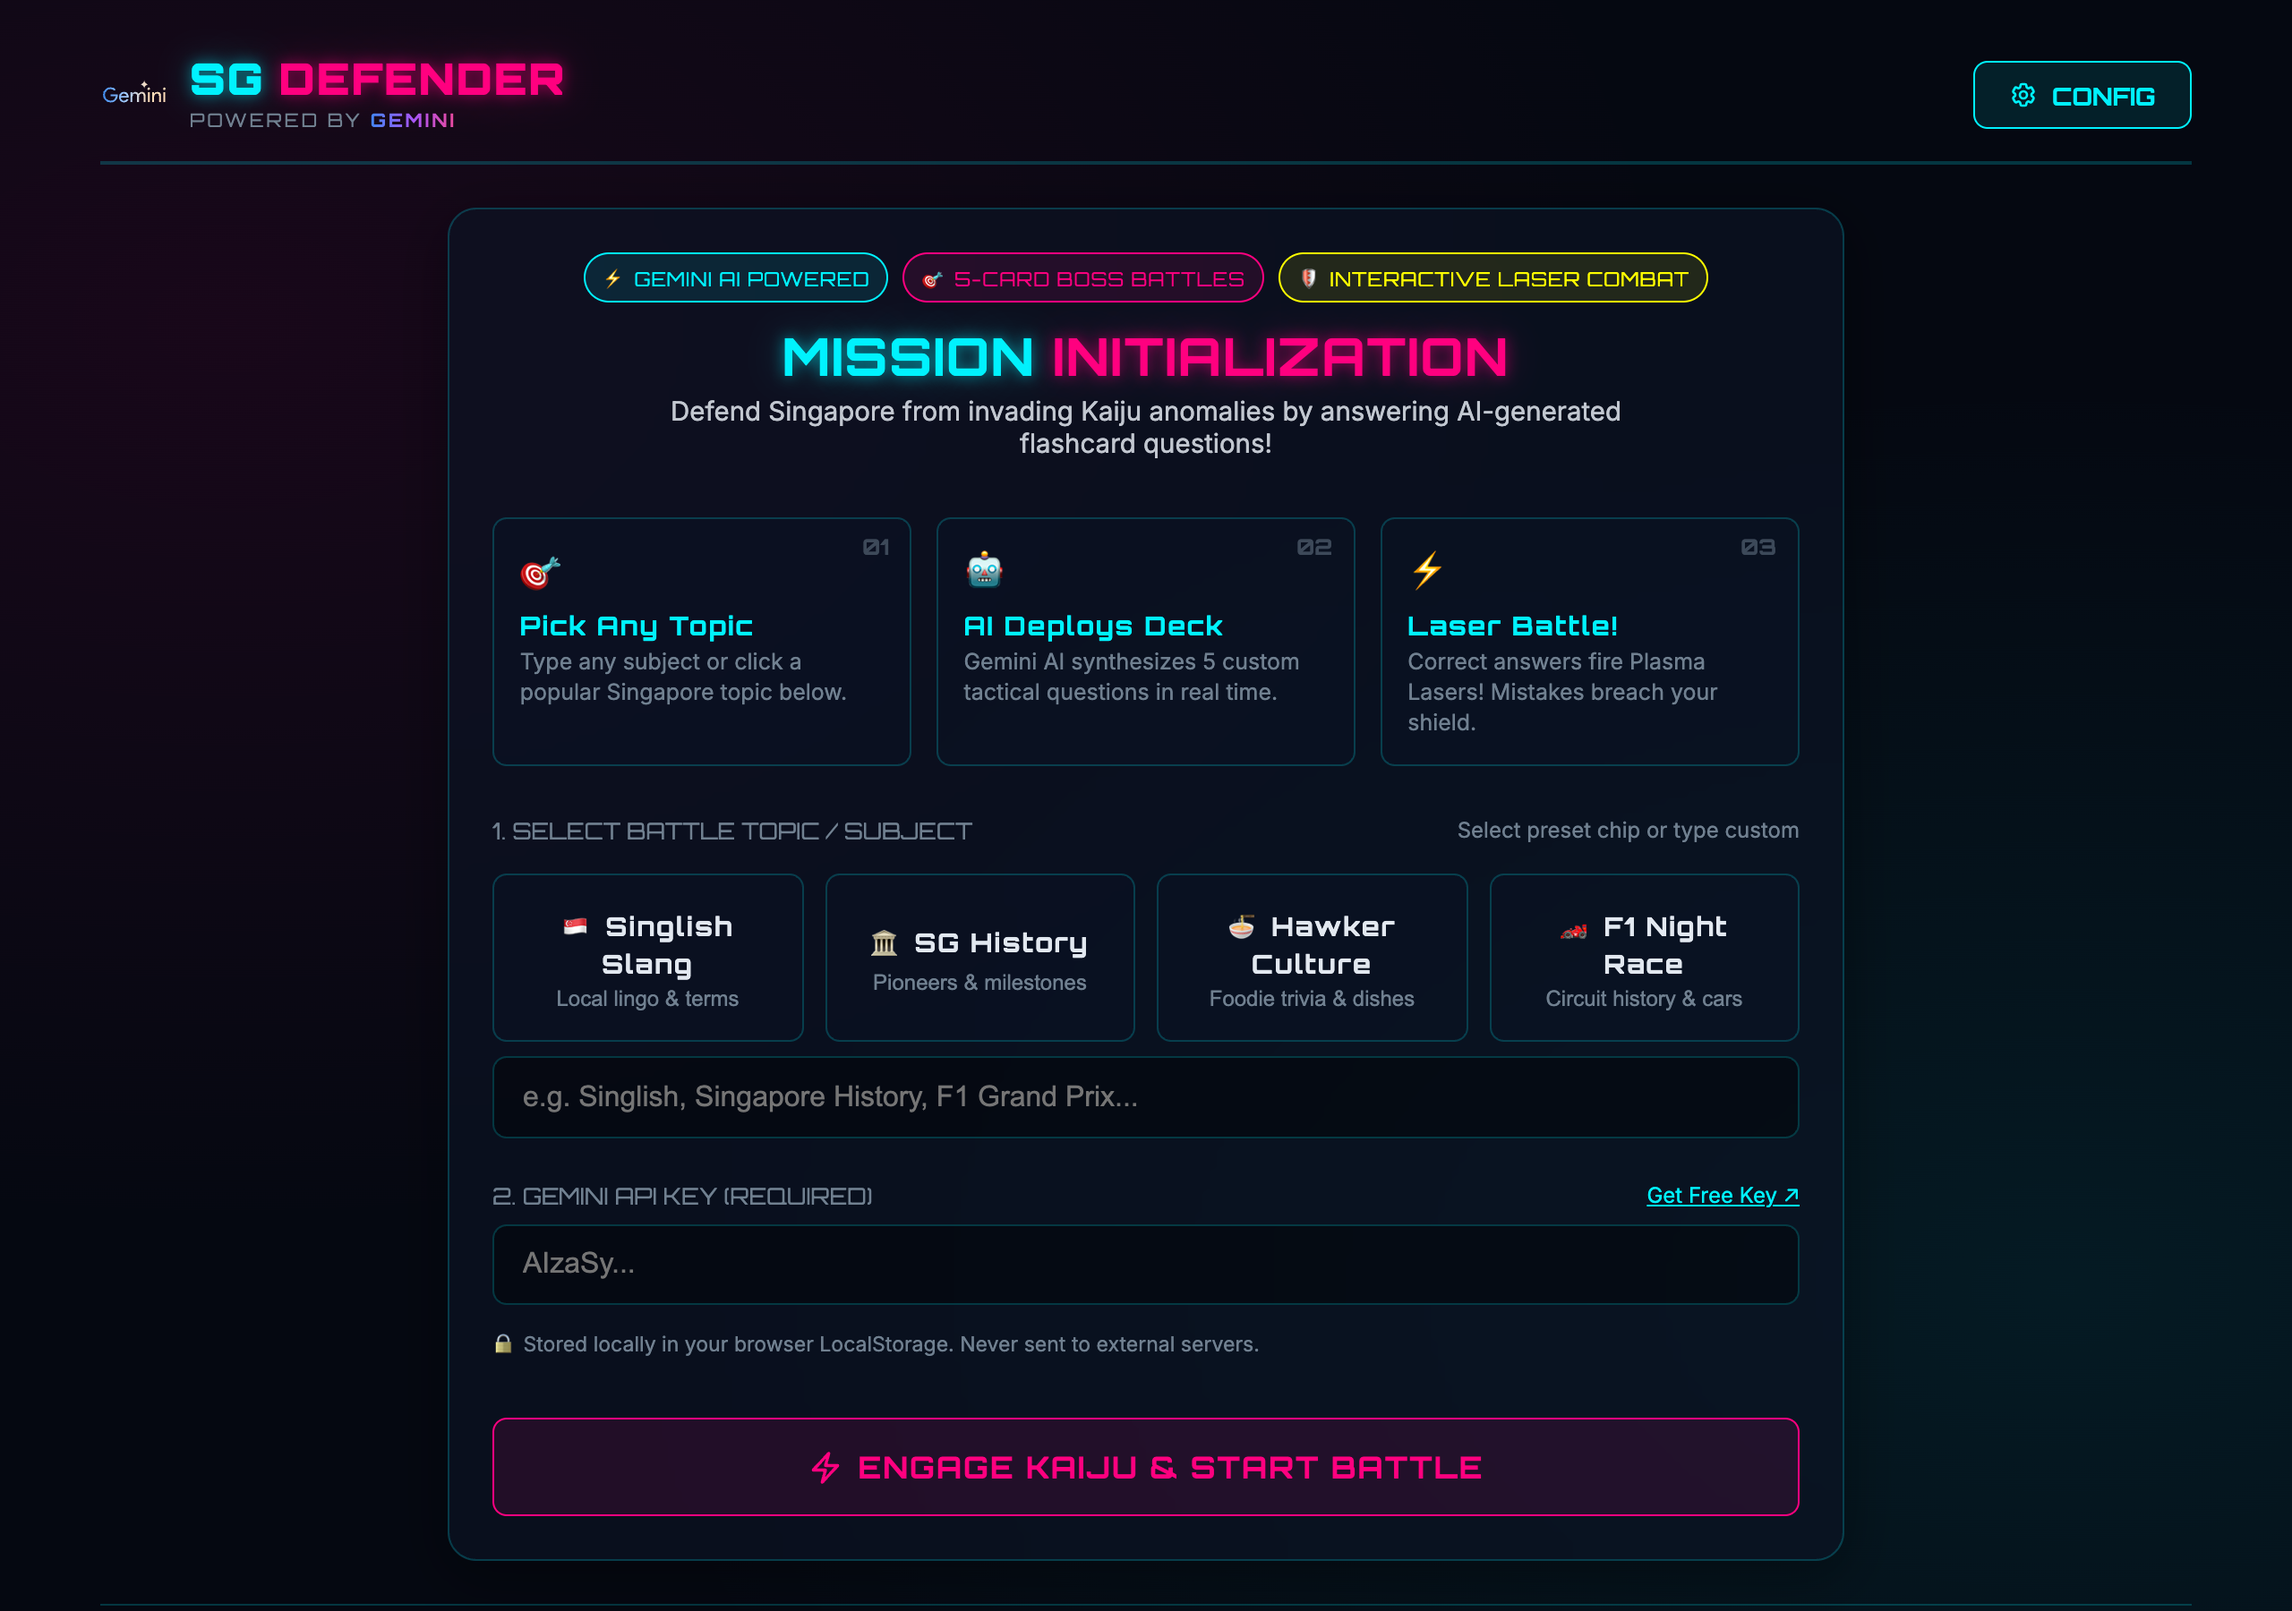
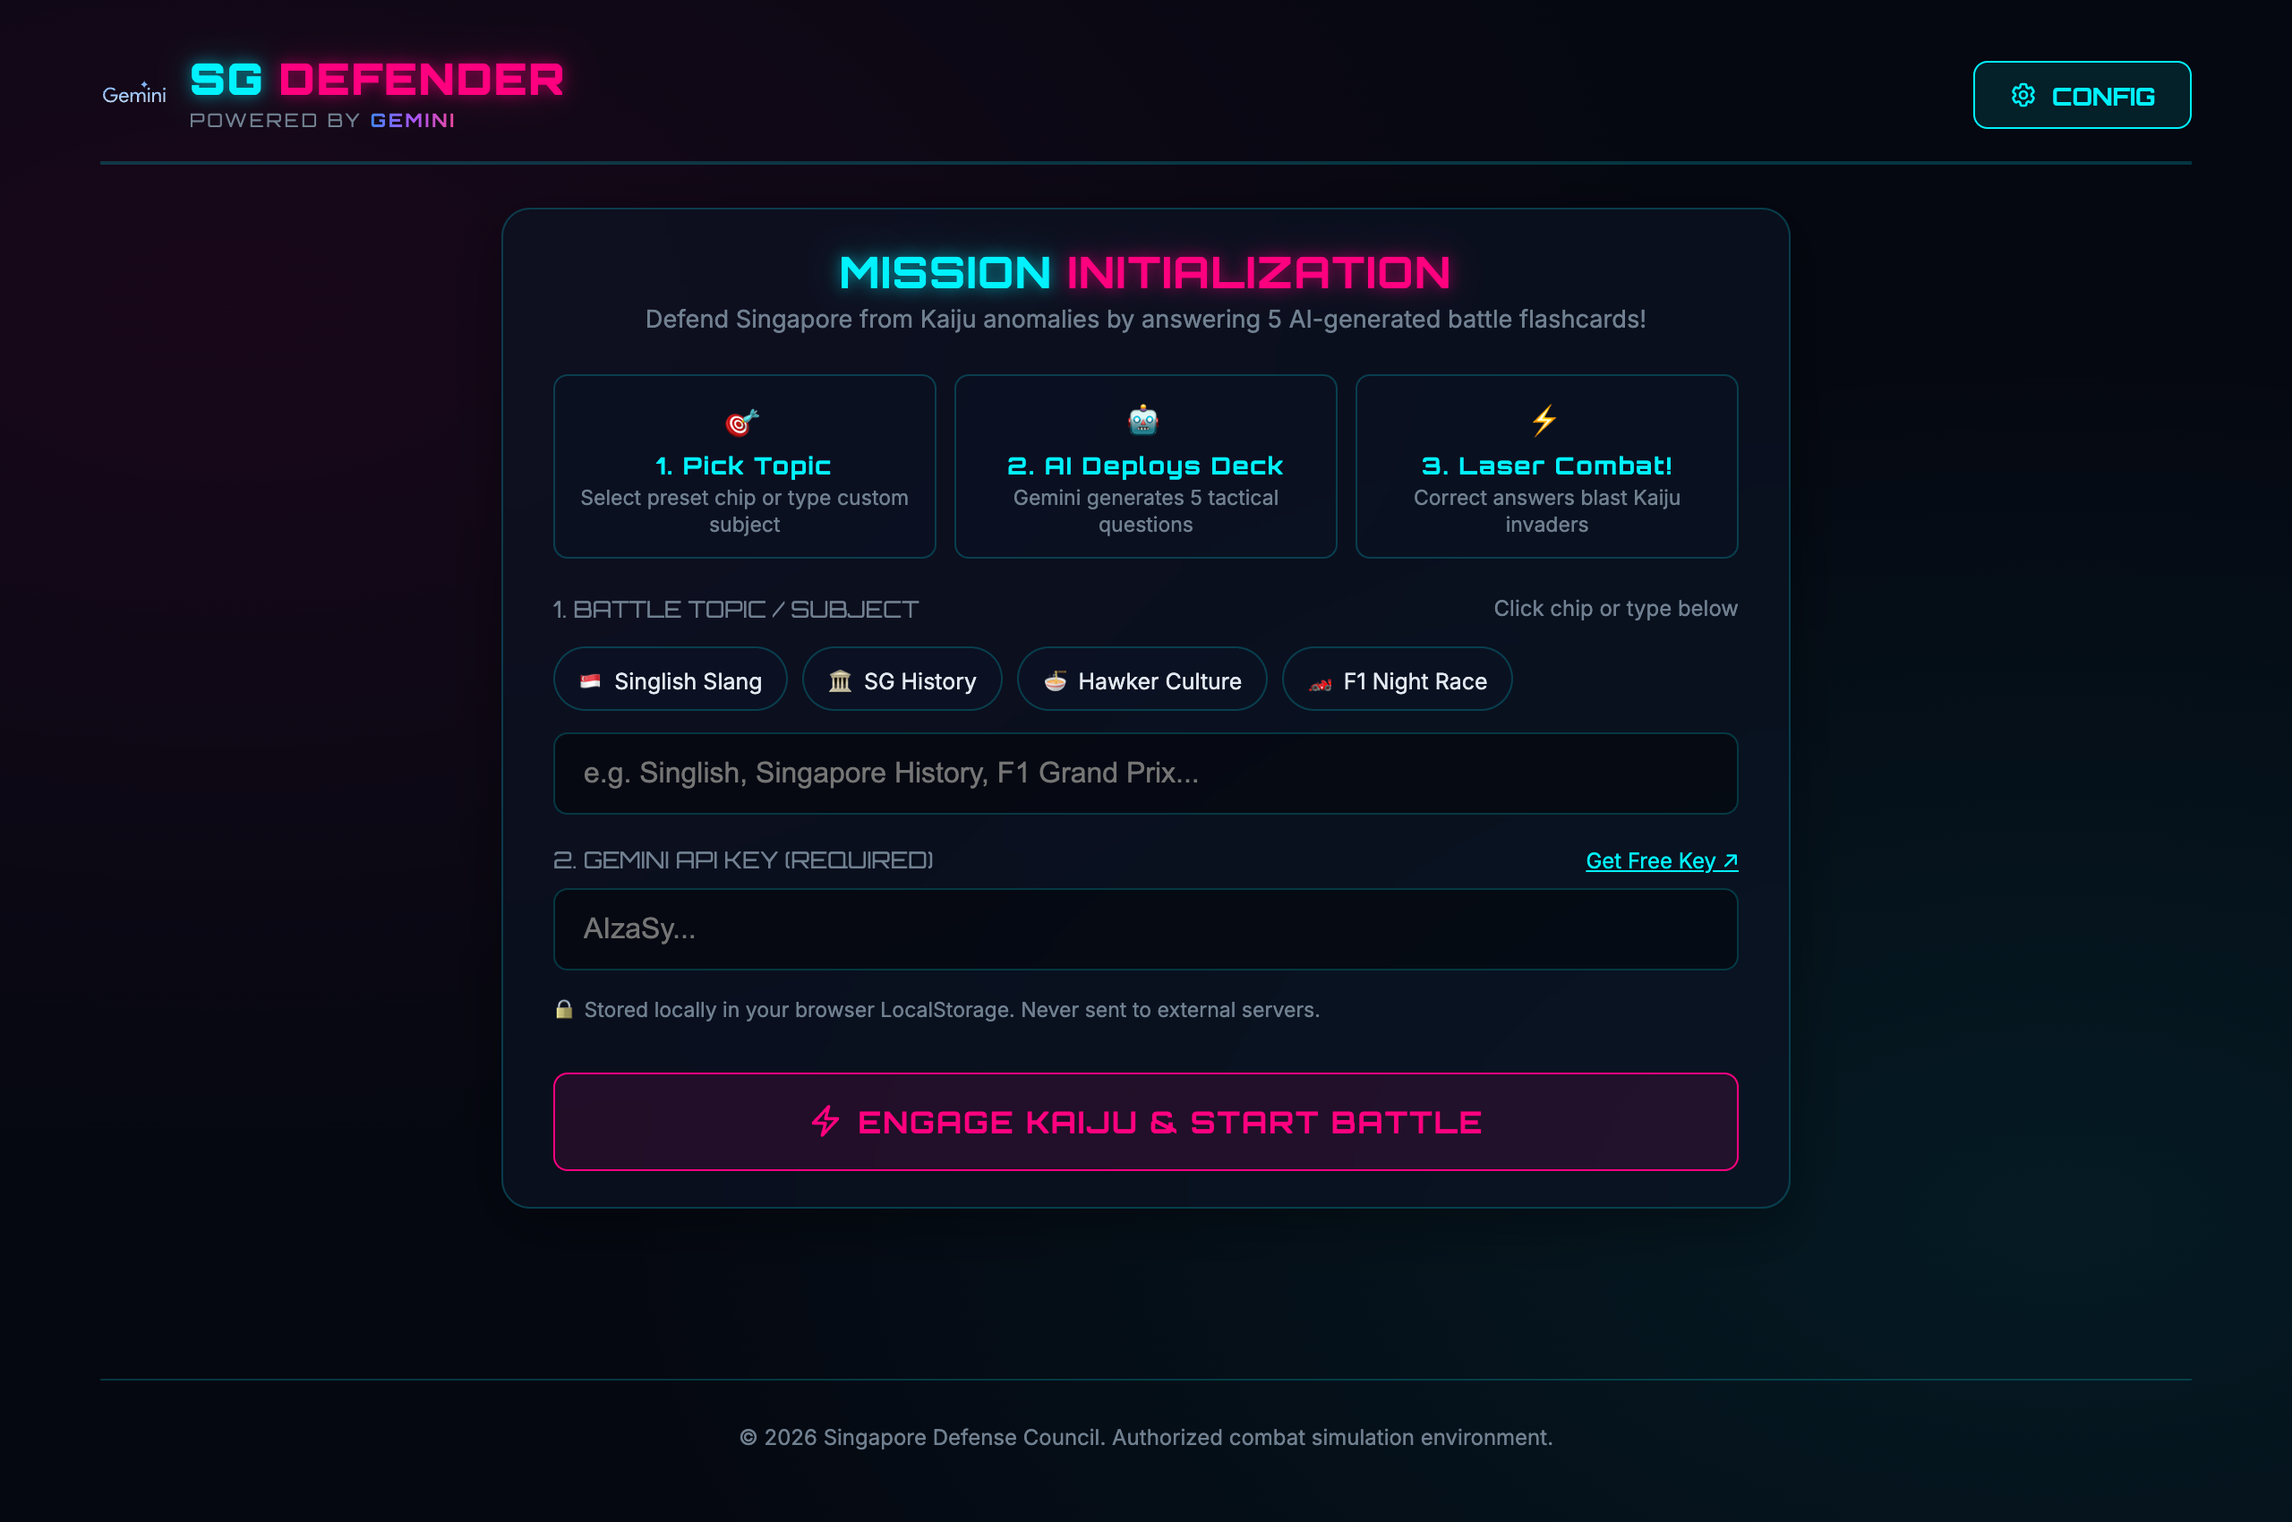
refactor: declutter landing page layout, convert preset cards to sleek 1-line chips, remove top badges, and increase vertical breathing room

diff --git a/index.html b/index.html
@@ -36,66 +36,46 @@
       
       <!-- 1. SETUP SCREEN / LANDING PAGE -->
       <section id="setup-screen" class="panel setup-panel">
-        <!-- Hero Header & Badges -->
+        <!-- Hero Header -->
         <div class="landing-hero">
-          <div class="badge-group">
-            <span class="hero-badge badge-cyan">⚡ Gemini AI Powered</span>
-            <span class="hero-badge badge-magenta">🎯 5-Card Boss Battles</span>
-            <span class="hero-badge badge-yellow">🛡 Interactive Laser Combat</span>
-          </div>
           <h2 class="hero-title font-tech">MISSION <span class="text-magenta">INITIALIZATION</span></h2>
           <p class="hero-subtitle">
-            Defend Singapore from invading Kaiju anomalies by answering AI-generated flashcard questions!
+            Defend Singapore from Kaiju anomalies by answering 5 AI-generated battle flashcards!
           </p>
         </div>
 
         <!-- 3-Step Core Loop Stepper Cards -->
         <div class="how-it-works-grid">
           <div class="step-card">
-            <div class="step-number">01</div>
             <div class="step-icon">🎯</div>
-            <h4>Pick Any Topic</h4>
-            <p>Type any subject or click a popular Singapore topic below.</p>
+            <h4>1. Pick Topic</h4>
+            <p>Select preset chip or type custom subject</p>
           </div>
           <div class="step-card">
-            <div class="step-number">02</div>
             <div class="step-icon">🤖</div>
-            <h4>AI Deploys Deck</h4>
-            <p>Gemini AI synthesizes 5 custom tactical questions in real time.</p>
+            <h4>2. AI Deploys Deck</h4>
+            <p>Gemini generates 5 tactical questions</p>
           </div>
           <div class="step-card">
-            <div class="step-number">03</div>
             <div class="step-icon">⚡</div>
-            <h4>Laser Battle!</h4>
-            <p>Correct answers fire Plasma Lasers! Mistakes breach your shield.</p>
+            <h4>3. Laser Combat!</h4>
+            <p>Correct answers blast Kaiju invaders</p>
           </div>
         </div>
 
         <!-- Topic Selection & Presets -->
         <div class="form-group">
-          <div class="key-label-row" style="margin-bottom: 0.5rem;">
-            <label for="topic-input" style="margin: 0;">1. Select Battle Topic / Subject</label>
-            <span style="font-size: 0.75rem; color: var(--color-text-muted);">Select preset chip or type custom</span>
+          <div class="key-label-row" style="margin-bottom: 0.35rem;">
+            <label for="topic-input" style="margin: 0;">1. Battle Topic / Subject</label>
+            <span style="font-size: 0.75rem; color: var(--color-text-muted);">Click chip or type below</span>
           </div>
           
           <!-- 1-Click Topic Chips -->
-          <div class="presets-grid" id="presets-container">
-            <button type="button" class="preset-card" data-topic="Singlish & Local Slang">
-              <h4>🇸🇬 Singlish Slang</h4>
-              <p>Local lingo & terms</p>
-            </button>
-            <button type="button" class="preset-card" data-topic="Singapore History & Heritage">
-              <h4>🏛 SG History</h4>
-              <p>Pioneers & milestones</p>
-            </button>
-            <button type="button" class="preset-card" data-topic="Singapore Hawker Food">
-              <h4>🍜 Hawker Culture</h4>
-              <p>Foodie trivia & dishes</p>
-            </button>
-            <button type="button" class="preset-card" data-topic="F1 Singapore Grand Prix">
-              <h4>🏎 F1 Night Race</h4>
-              <p>Circuit history & cars</p>
-            </button>
+          <div class="preset-chips-row" id="presets-container">
+            <button type="button" class="preset-chip" data-topic="Singlish & Local Slang">🇸🇬 Singlish Slang</button>
+            <button type="button" class="preset-chip" data-topic="Singapore History & Heritage">🏛 SG History</button>
+            <button type="button" class="preset-chip" data-topic="Singapore Hawker Food">🍜 Hawker Culture</button>
+            <button type="button" class="preset-chip" data-topic="F1 Singapore Grand Prix">🏎 F1 Night Race</button>
           </div>
 
           <input type="text" id="topic-input" class="form-input" placeholder="e.g. Singlish, Singapore History, F1 Grand Prix..." aria-required="true">

diff --git a/styles.css b/styles.css
@@ -202,44 +202,23 @@ header h1 span {
 .setup-panel {
   display: flex;
   flex-direction: column;
-  gap: 1.5rem;
-  max-width: 780px;
+  gap: 1.1rem;
+  max-width: 720px;
   margin: auto;
   width: 100%;
+  padding: 1.25rem 1.75rem;
 }
 
 .landing-hero {
   text-align: center;
-  margin-bottom: 0.25rem;
+  margin-bottom: 0.15rem;
 }
-
-.badge-group {
-  display: flex;
-  justify-content: center;
-  gap: 0.5rem;
-  flex-wrap: wrap;
-  margin-bottom: 0.75rem;
-}
-
-.hero-badge {
-  font-family: var(--font-display);
-  font-size: 0.68rem;
-  padding: 0.25rem 0.6rem;
-  border-radius: 20px;
-  border: 1px solid var(--color-border);
-  text-transform: uppercase;
-  letter-spacing: 0.5px;
-}
-
-.badge-cyan { background: rgba(0, 242, 254, 0.1); color: var(--color-cyan); border-color: var(--color-cyan); }
-.badge-magenta { background: rgba(255, 0, 127, 0.1); color: var(--color-magenta); border-color: var(--color-magenta); }
-.badge-yellow { background: rgba(254, 254, 0, 0.1); color: var(--color-yellow); border-color: var(--color-yellow); }
 
 .hero-title {
-  font-size: 1.8rem;
+  font-size: 1.5rem;
   color: var(--color-cyan);
   text-shadow: var(--glow-cyan);
-  margin-bottom: 0.25rem;
+  margin-bottom: 0.2rem;
 }
 
 .text-magenta {
@@ -248,9 +227,8 @@ header h1 span {
 }
 
 .hero-subtitle {
-  color: var(--color-text);
-  font-size: 0.92rem;
-  opacity: 0.85;
+  color: var(--color-text-muted);
+  font-size: 0.85rem;
   max-width: 580px;
   margin: 0 auto;
 }
@@ -258,52 +236,78 @@ header h1 span {
 /* 3-Step How It Works Grid */
 .how-it-works-grid {
   display: grid;
-  grid-template-columns: repeat(auto-fit, minmax(200px, 1fr));
-  gap: 0.85rem;
-  margin-block: 0.25rem;
+  grid-template-columns: repeat(auto-fit, minmax(180px, 1fr));
+  gap: 0.65rem;
+  margin-block: 0.15rem;
 }
 
 .step-card {
   background: rgba(10, 18, 36, 0.5);
   border: 1px solid var(--color-border);
   border-radius: var(--radius-md);
-  padding: 0.9rem;
-  position: relative;
+  padding: 0.65rem 0.85rem;
+  display: flex;
+  flex-direction: column;
+  align-items: center;
+  text-align: center;
   transition: transform var(--transition-speed), border-color var(--transition-speed);
 }
 
 .step-card:hover {
   transform: translateY(-2px);
   border-color: var(--color-cyan);
-  box-shadow: 0 4px 16px rgba(0, 242, 254, 0.15);
-}
-
-.step-number {
-  position: absolute;
-  top: 0.5rem;
-  right: 0.75rem;
-  font-family: var(--font-display);
-  font-size: 0.75rem;
-  font-weight: 700;
-  color: var(--color-text-muted);
-  opacity: 0.5;
+  box-shadow: 0 4px 12px rgba(0, 242, 254, 0.15);
 }
 
 .step-icon {
-  font-size: 1.4rem;
-  margin-bottom: 0.35rem;
+  font-size: 1.2rem;
+  margin-bottom: 0.2rem;
 }
 
 .step-card h4 {
-  font-size: 0.9rem;
+  font-size: 0.82rem;
   color: var(--color-cyan);
-  margin-bottom: 0.25rem;
+  margin-bottom: 0.15rem;
 }
 
 .step-card p {
-  font-size: 0.78rem;
+  font-size: 0.72rem;
   color: var(--color-text-muted);
-  line-height: 1.35;
+  line-height: 1.3;
+}
+
+/* 1-Click Topic Preset Chips */
+.preset-chips-row {
+  display: flex;
+  flex-wrap: wrap;
+  gap: 0.5rem;
+  margin-bottom: 0.25rem;
+}
+
+.preset-chip {
+  background: rgba(10, 18, 36, 0.6);
+  border: 1px solid var(--color-border);
+  color: var(--color-text);
+  padding: 0.4rem 0.85rem;
+  border-radius: 20px;
+  font-size: 0.78rem;
+  cursor: pointer;
+  transition: all var(--transition-speed);
+  font-family: var(--font-body);
+}
+
+.preset-chip:hover {
+  border-color: var(--color-cyan);
+  background: rgba(0, 242, 254, 0.1);
+  color: var(--color-cyan);
+  box-shadow: 0 0 8px rgba(0, 242, 254, 0.2);
+}
+
+.preset-chip.selected {
+  border-color: var(--color-magenta);
+  background: rgba(255, 0, 127, 0.15);
+  color: var(--color-magenta);
+  box-shadow: 0 0 10px rgba(255, 0, 127, 0.3);
 }
 
 /* Key Helper Row */

diff --git a/app.js b/app.js
@@ -309,10 +309,10 @@ function initializeApp() {
   dom.restartBtn.addEventListener('click', restartToSetup);
 
   // 1-Click Topic Preset Chips
-  const presetCards = document.querySelectorAll('.preset-card');
-  presetCards.forEach(card => {
+  const presetChips = document.querySelectorAll('.preset-chip');
+  presetChips.forEach(card => {
     card.addEventListener('click', () => {
-      presetCards.forEach(c => c.classList.remove('selected'));
+      presetChips.forEach(c => c.classList.remove('selected'));
       card.classList.add('selected');
       const topic = card.getAttribute('data-topic');
       if (topic && dom.topicInput) {
